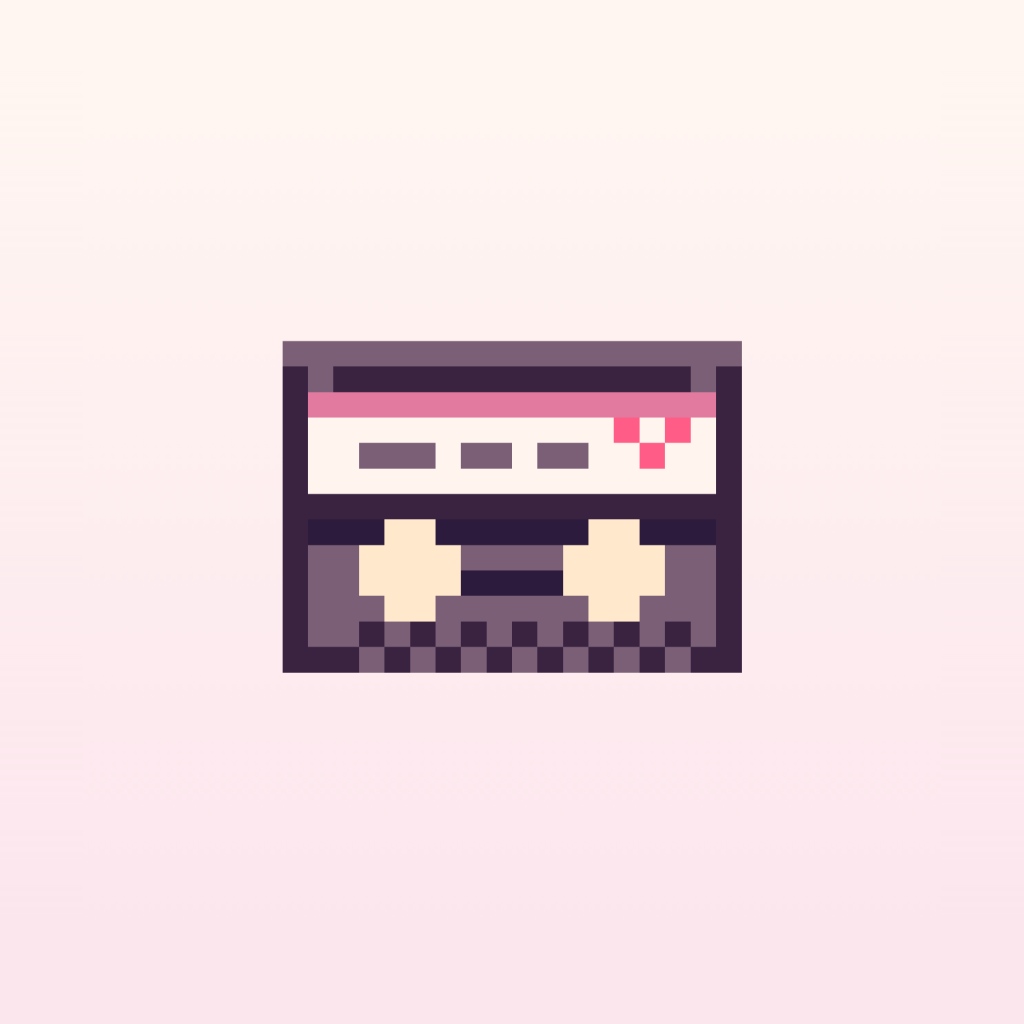
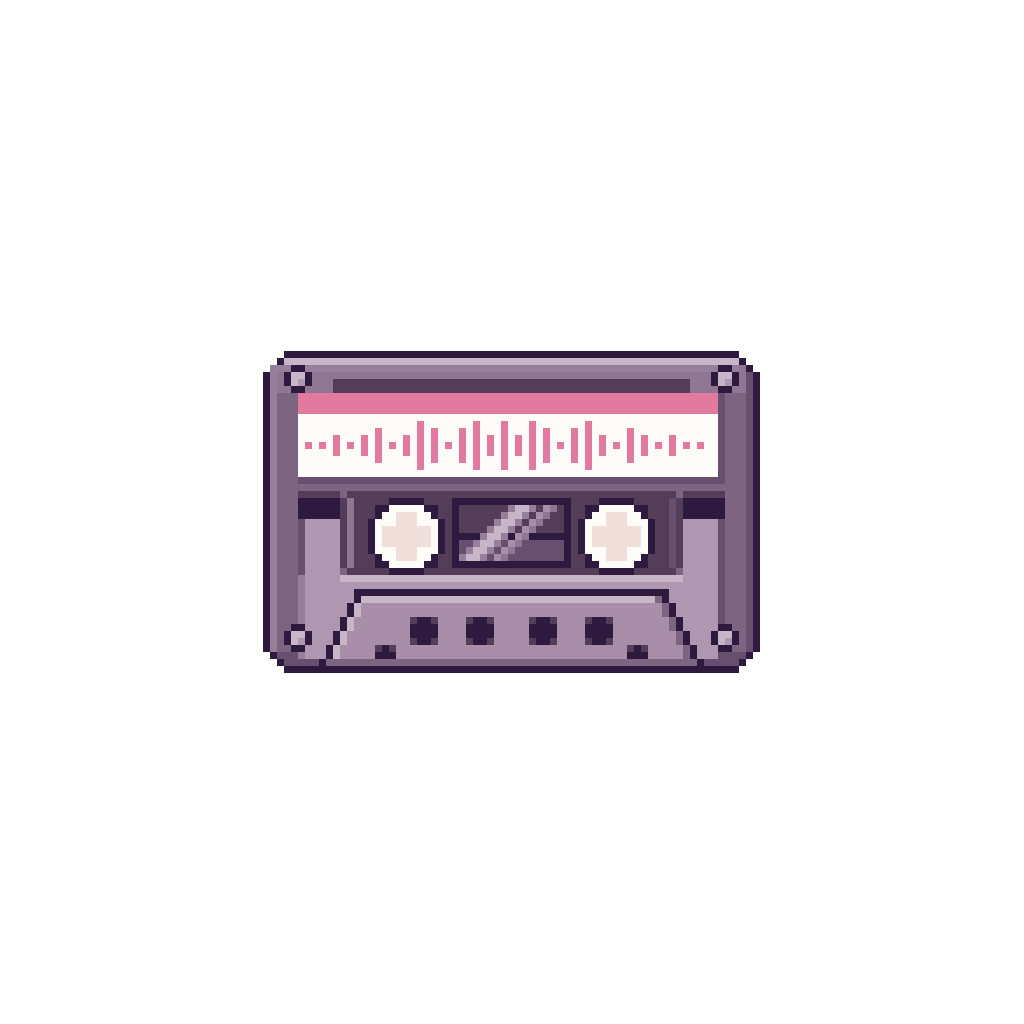
feat(brand): 새 카세트 로고로 앱 아이콘·스플래시 교체
- icon.png 1024 (iOS·App Store), 안드로이드 적응형 아이콘은 투명 전경 +
  그라데이션 배경 이미지로 분리 (dev 빌드는 배경 이미지를 빼 보라 단색 유지)
- 스플래시 배경색 #FEEEF0 → #FDE2E6
- 네이티브 설정이라 새 빌드 필요

Changed region(s): [[0.25, 0.3125, 0.75, 0.6562], [0.0, 0.8438, 1.0, 1.0]]

diff --git a/app.config.js b/app.config.js
@@ -43,10 +43,11 @@ module.exports = ({ config }) => {
       ...config.android,
       package: 'com.haruvoice.app.dev',
       googleServicesFile: './google-services.dev.json',
-      // dev 아이콘 배경색을 prod(핑크 #F8D2DC)와 다른 보라로 → 홈 화면에서 한눈에 구분.
-      // (전경 로고 adaptive-icon.png 의 투명 여백 영역에 이 색이 보임)
+      // dev 아이콘 배경을 prod(분홍 그라데이션 이미지)와 다른 보라 단색으로 → 홈 화면에서 한눈에 구분.
+      // (전경 로고 adaptive-icon.png 의 투명 여백 영역에 이 색이 보임. 배경 이미지가 있으면 색이 가려져 뺀다)
       adaptiveIcon: {
         ...config.android.adaptiveIcon,
+        backgroundImage: undefined,
         backgroundColor: '#6C5CE7',
       },
     },
